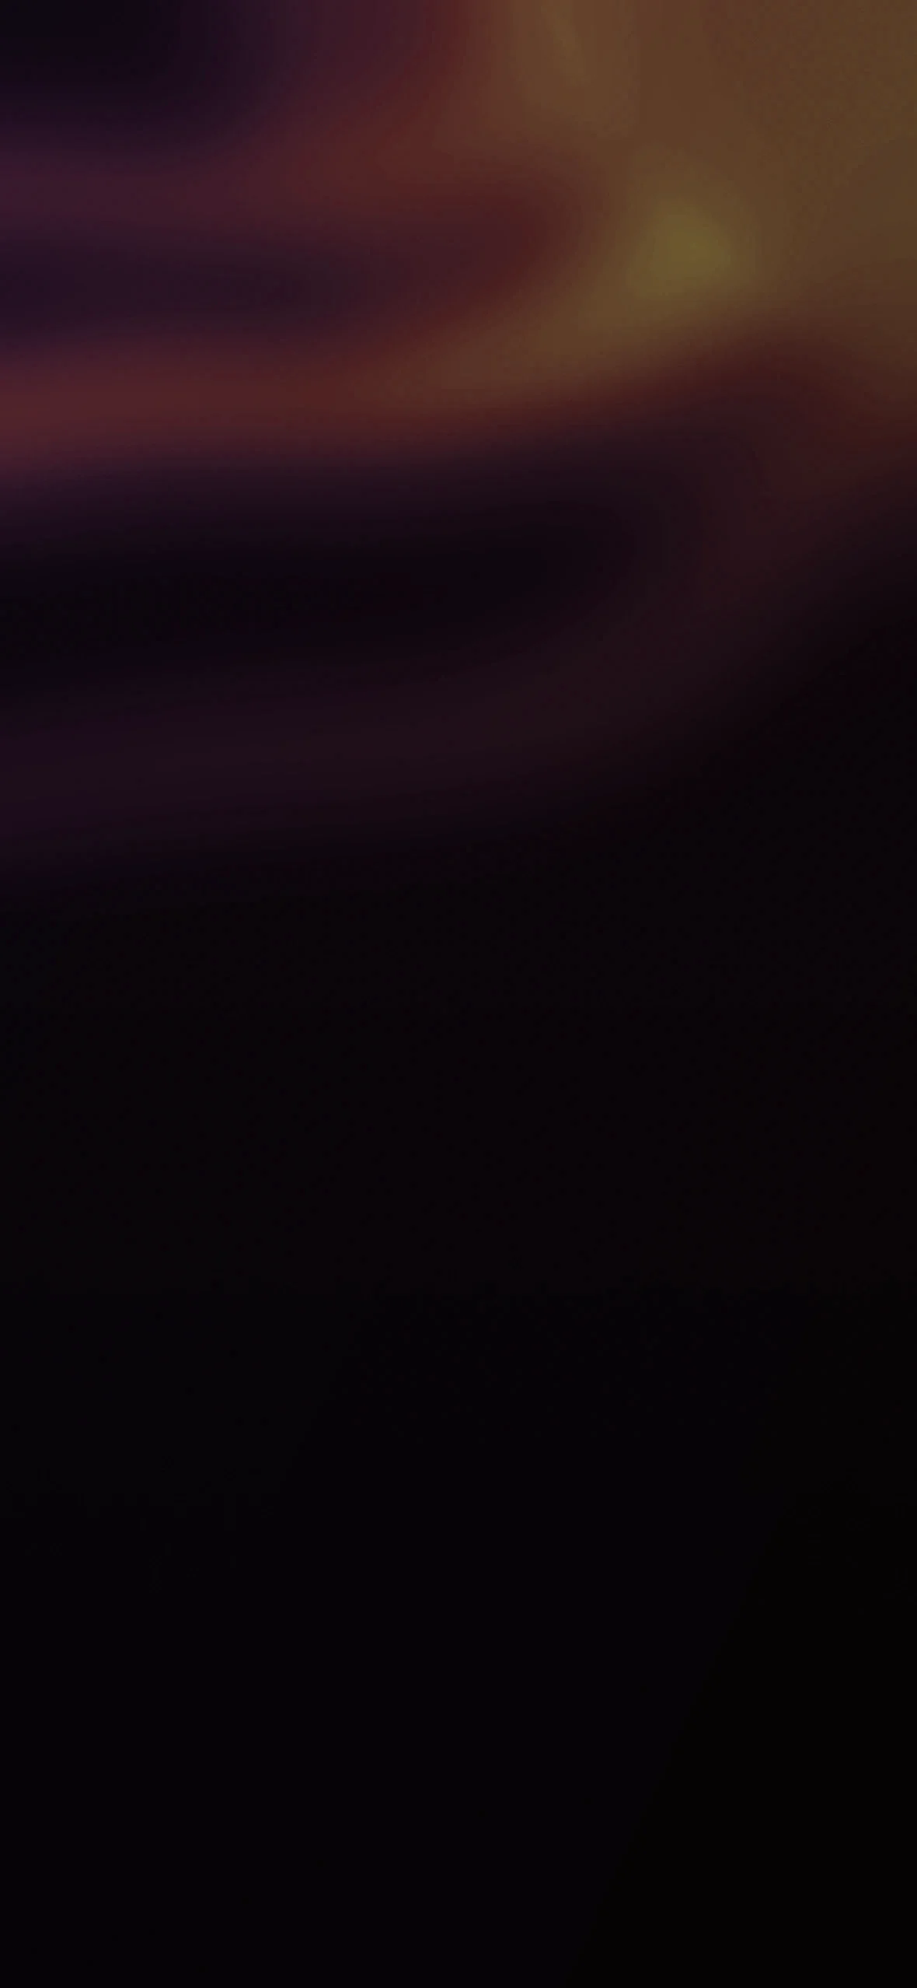
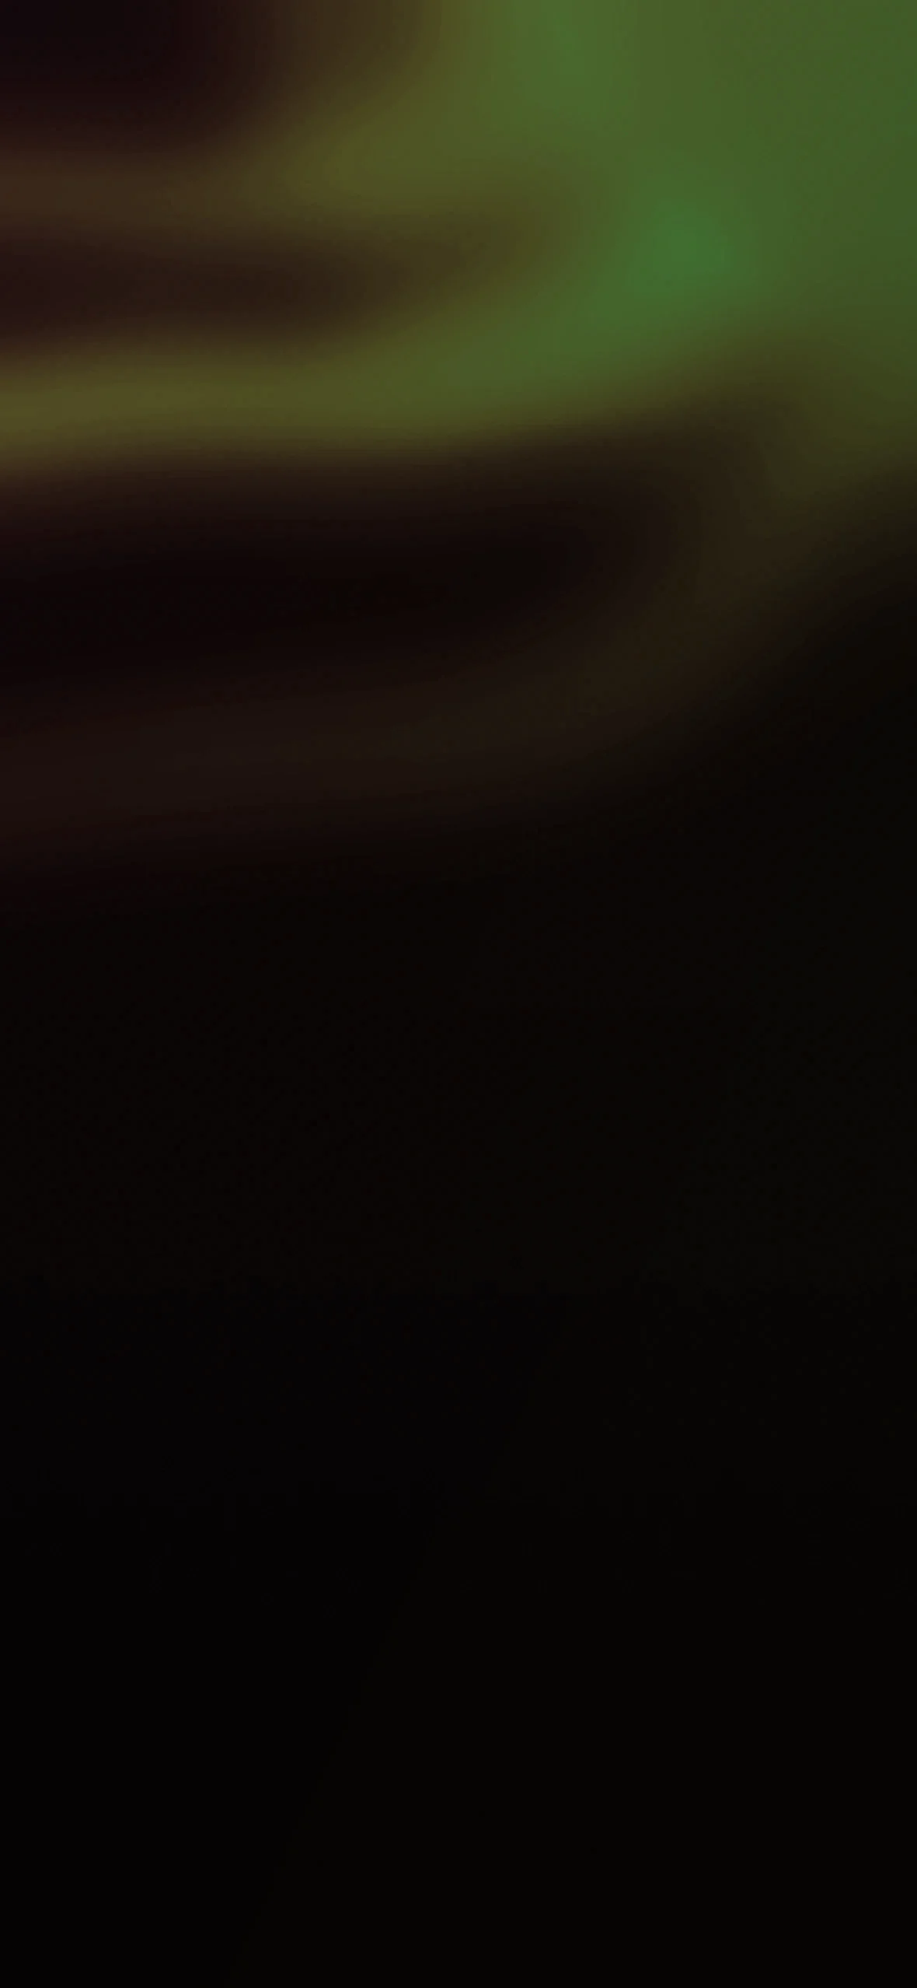
Morning 6 shiny is always Moonlight; new shiny bake; studio shows only app moons
Everyone's first shiny is Moonlight's on morning 6 (or the next morning settled), whatever is worn. Not worn:
it rises plain, turns shiny, Apply wears it. Re-baked shinies from the studio. Shiny studio lists only the
moons the app can give (Moonlight, the ladder, rares, limited).

Claude-Session: https://claude.ai/code/session_01HyXKCDmjcDpjfsTVkbCRhf

Changed region(s): [[0.0, 0.0, 1.0, 0.2473]]

diff --git a/src/features/moons/shiny-colors.ts b/src/features/moons/shiny-colors.ts
@@ -3,13 +3,13 @@ import type { ImageSourcePropType } from 'react-native';
 
 /** Each moon's shiny: its colours and recoloured pictures (shiny-look.ts). */
 export const SHINY_COLORS: Record<string, { glow: string; orb: [string, string, string, string]; skyColors: [string, string, string, string]; sky: ImageSourcePropType; moon: ImageSourcePropType }> = {
-  "moonlight": { glow: "#CAD866", orb: ["#1D011F", "#8C2506", "#B6EA50", "#B5FF81"], skyColors: ["#08040A", "#551630", "#782425", "#782425"], sky: require('@/assets/moons/shiny/moonlight-sky.webp'), moon: require('@/assets/moons/shiny/moonlight-moon.webp') },
-  "full": { glow: "#678ECC", orb: ["#262613", "#488E75", "#5AA0B2", "#7774E6"], skyColors: ["#070503", "#22210B", "#325024", "#325024"], sky: require('@/assets/moons/shiny/full-sky.webp'), moon: require('@/assets/moons/shiny/full-moon.webp') },
+  "moonlight": { glow: "#92D8C9", orb: ["#1F0D1D", "#768C3D", "#8FDCEA", "#ACD0FF"], skyColors: ["#09070A", "#553730", "#787247", "#787247"], sky: require('@/assets/moons/shiny/moonlight-sky.webp'), moon: require('@/assets/moons/shiny/moonlight-moon.webp') },
+  "full": { glow: "#0083CC", orb: ["#261800", "#008E30", "#00B2A6", "#0031E6"], skyColors: ["#070100", "#221300", "#375000", "#375000"], sky: require('@/assets/moons/shiny/full-sky.webp'), moon: require('@/assets/moons/shiny/full-moon.webp') },
   "harvest": { glow: "#E02C90", orb: ["#041031", "#C224AA", "#CC3BA8", "#E172AE"], skyColors: ["#020405", "#000E2A", "#060054", "#060054"], sky: require('@/assets/moons/shiny/harvest-sky.webp'), moon: require('@/assets/moons/shiny/harvest-moon.webp') },
-  "supermoon": { glow: "#93D86D", orb: ["#21152A", "#AFA858", "#A2CA66", "#7BF389"], skyColors: ["#030305", "#15101F", "#4E2746", "#4E2746"], sky: require('@/assets/moons/shiny/supermoon-sky.webp'), moon: require('@/assets/moons/shiny/supermoon-moon.webp') },
+  "supermoon": { glow: "#B1D8AA", orb: ["#27212A", "#ACAF8A", "#B1CA9F", "#BFF3D1"], skyColors: ["#040405", "#1B181F", "#4E3D49", "#4E3D49"], sky: require('@/assets/moons/shiny/supermoon-sky.webp'), moon: require('@/assets/moons/shiny/supermoon-moon.webp') },
   "micromoon": { glow: "#8C5BB4", orb: ["#132526", "#6F52A2", "#985EBB", "#E674DE"], skyColors: ["#020605", "#081C1B", "#1B3340", "#1B3340"], sky: require('@/assets/moons/shiny/micromoon-sky.webp'), moon: require('@/assets/moons/shiny/micromoon-moon.webp') },
-  "blood": { glow: "#1E29B3", orb: ["#00200B", "#005C64", "#034E83", "#463FBE"], skyColors: ["#020502", "#002610", "#013A25", "#013A25"], sky: require('@/assets/moons/shiny/blood-sky.webp'), moon: require('@/assets/moons/shiny/blood-moon.webp') },
-  "bluemoon": { glow: "#EBDB3D", orb: ["#300300", "#904A05", "#B47D13", "#EADC57"], skyColors: ["#030000", "#3B0600", "#7D3300", "#AE7007"], sky: require('@/assets/moons/shiny/bluemoon-sky.webp'), moon: require('@/assets/moons/shiny/bluemoon-moon.webp') },
+  "blood": { glow: "#00B3AA", orb: ["#001E20", "#640015", "#7F8300", "#0074BE"], skyColors: ["#000500", "#001A26", "#07003A", "#07003A"], sky: require('@/assets/moons/shiny/blood-sky.webp'), moon: require('@/assets/moons/shiny/blood-moon.webp') },
+  "bluemoon": { glow: "#9CA1EB", orb: ["#1A2630", "#516490", "#6B7AB4", "#A7ACEA"], skyColors: ["#020203", "#1E2D3B", "#42577D", "#6273AE"], sky: require('@/assets/moons/shiny/bluemoon-sky.webp'), moon: require('@/assets/moons/shiny/bluemoon-moon.webp') },
   "snow": { glow: "#CBD66C", orb: ["#2D172A", "#B09259", "#C9C466", "#C0EF79"], skyColors: ["#050306", "#261325", "#5A2D3D", "#5A2D3D"], sky: require('@/assets/moons/shiny/snow-sky.webp'), moon: require('@/assets/moons/shiny/snow-moon.webp') },
   "strawberry": { glow: "#9F71E0", orb: ["#102E1F", "#4A59AB", "#7164C6", "#BF79F0"], skyColors: ["#030603", "#0B2B1A", "#24606C", "#24606C"], sky: require('@/assets/moons/shiny/strawberry-sky.webp'), moon: require('@/assets/moons/shiny/strawberry-moon.webp') },
   "flower": { glow: "#E2D372", orb: ["#351B18", "#B89A5D", "#CFB869", "#F2EB7A"], skyColors: ["#090304", "#361613", "#845938", "#845938"], sky: require('@/assets/moons/shiny/flower-sky.webp'), moon: require('@/assets/moons/shiny/flower-moon.webp') },
@@ -22,8 +22,8 @@ export const SHINY_COLORS: Record<string, { glow: string; orb: [string, string, 
   "partial": { glow: "#B09159", orb: ["#1C0E0F", "#77523C", "#97734C", "#DECD70"], skyColors: ["#040202", "#180C0D", "#3A201D", "#3A201D"], sky: require('@/assets/moons/shiny/partial-sky.webp'), moon: require('@/assets/moons/shiny/partial-moon.webp') },
   "ashen": { glow: "#5A2D3D", orb: ["#0C070E", "#2A1528", "#3B1E33", "#773C3D"], skyColors: ["#020203", "#0E0810", "#2A1528", "#2A1528"], sky: require('@/assets/moons/shiny/ashen-sky.webp'), moon: require('@/assets/moons/shiny/ashen-moon.webp') },
   "smoke": { glow: "#9B0DC8", orb: ["#05282D", "#4900A9", "#8C00C4", "#ED3CD3"], skyColors: ["#030605", "#0D272A", "#1F306A", "#1F306A"], sky: require('@/assets/moons/shiny/smoke-sky.webp'), moon: require('@/assets/moons/shiny/smoke-moon.webp') },
-  "bluehour": { glow: "#AF75E8", orb: ["#274D47", "#BB78EE", "#C57BF3", "#D97FFC"], skyColors: ["#030F05", "#0C5C5B", "#3349A8", "#986FDC"], sky: require('@/assets/moons/shiny/bluehour-sky.webp'), moon: require('@/assets/moons/shiny/bluehour-moon.webp') },
-  "eclipse": { glow: "#52E8BD", orb: ["#030103", "#1A0612", "#708A0F", "#81F4FF"], skyColors: ["#060306", "#2A131A", "#6E5F30", "#6E5F30"], sky: require('@/assets/moons/shiny/eclipse-sky.webp'), moon: require('@/assets/moons/shiny/eclipse-moon.webp') },
+  "bluehour": { glow: "#E8E175", orb: ["#344D27", "#EEE478", "#F3E67B", "#FCE97F"], skyColors: ["#040F03", "#2D5C0C", "#8DA833", "#DCDB6F"], sky: require('@/assets/moons/shiny/bluehour-sky.webp'), moon: require('@/assets/moons/shiny/bluehour-moon.webp') },
+  "eclipse": { glow: "#5264E8", orb: ["#030101", "#1A0F06", "#0F8A35", "#A281FF"], skyColors: ["#060303", "#2A2313", "#3A6E30", "#3A6E30"], sky: require('@/assets/moons/shiny/eclipse-sky.webp'), moon: require('@/assets/moons/shiny/eclipse-moon.webp') },
   "dawn": { glow: "#E875DD", orb: ["#172B2E", "#945DB9", "#C46AD2", "#F77DD8"], skyColors: ["#030605", "#102A2E", "#383C7A", "#CF63D8"], sky: require('@/assets/moons/shiny/dawn-sky.webp'), moon: require('@/assets/moons/shiny/dawn-moon.webp') },
   "aurora": { glow: "#5D5EB8", orb: ["#132B1E", "#5B60B4", "#7063C5", "#A974E5"], skyColors: ["#030603", "#082A17", "#236070", "#665FC0"], sky: require('@/assets/moons/shiny/aurora-sky.webp'), moon: require('@/assets/moons/shiny/aurora-moon.webp') },
   "dusk": { glow: "#63F06D", orb: ["#21152A", "#6CE252", "#75ED77", "#80FDA5"], skyColors: ["#02020A", "#290734", "#622A42", "#65E044"], sky: require('@/assets/moons/shiny/dusk-sky.webp'), moon: require('@/assets/moons/shiny/dusk-moon.webp') },
@@ -33,7 +33,7 @@ export const SHINY_COLORS: Record<string, { glow: string; orb: [string, string, 
   "golden": { glow: "#A8F040", orb: ["#3F0B2E", "#ACED3D", "#B5F468", "#B7FD80"], skyColors: ["#050306", "#3A032B", "#B07D1D", "#B7F063"], sky: require('@/assets/moons/shiny/golden-sky.webp'), moon: require('@/assets/moons/shiny/golden-moon.webp') },
   "cottoncandy": { glow: "#E0D071", orb: ["#3F2420", "#F5EF7C", "#F9F67E", "#FEFD80"], skyColors: ["#0A0405", "#3A1A17", "#C0A561", "#F0E879"], sky: require('@/assets/moons/shiny/cottoncandy-sky.webp'), moon: require('@/assets/moons/shiny/cottoncandy-moon.webp') },
   "deepsea": { glow: "#2D30B8", orb: ["#0D3221", "#444FB0", "#7A67CB", "#C57BF3"], skyColors: ["#010802", "#013822", "#045A70", "#372DC0"], sky: require('@/assets/moons/shiny/deepsea-sky.webp'), moon: require('@/assets/moons/shiny/deepsea-moon.webp') },
-  "ember": { glow: "#04E085", orb: ["#200211", "#592C0B", "#79810C", "#43D277"], skyColors: ["#040204", "#2A000E", "#6D8A00", "#0BF0CC"], sky: require('@/assets/moons/shiny/ember-sky.webp'), moon: require('@/assets/moons/shiny/ember-moon.webp') },
+  "ember": { glow: "#05E000", orb: ["#1C2000", "#004A59", "#4D0081", "#6ED202"], skyColors: ["#040101", "#152A00", "#7E008A", "#00F084"], sky: require('@/assets/moons/shiny/ember-sky.webp'), moon: require('@/assets/moons/shiny/ember-moon.webp') },
   "matcha": { glow: "#6197C0", orb: ["#2D3219", "#707CDD", "#7E76E9", "#A87EFA"], skyColors: ["#050403", "#201F10", "#356A39", "#6591C8"], sky: require('@/assets/moons/shiny/matcha-sky.webp'), moon: require('@/assets/moons/shiny/matcha-moon.webp') },
   "rose": { glow: "#9F71E0", orb: ["#1D3A2F", "#B777EC", "#C37AF2", "#DB80FD"], skyColors: ["#030603", "#062E1A", "#225E7A", "#906DD8"], sky: require('@/assets/moons/shiny/rose-sky.webp'), moon: require('@/assets/moons/shiny/rose-moon.webp') },
   "ultraviolet": { glow: "#41E8E6", orb: ["#402915", "#74E0F3", "#7DDCF8", "#81D5FF"], skyColors: ["#080104", "#3A1905", "#1BA00D", "#5DE0F0"], sky: require('@/assets/moons/shiny/ultraviolet-sky.webp'), moon: require('@/assets/moons/shiny/ultraviolet-moon.webp') },
@@ -49,7 +49,7 @@ export const SHINY_COLORS: Record<string, { glow: string; orb: [string, string, 
   "storm": { glow: "#98694D", orb: ["#211121", "#7B403E", "#9B6D4E", "#CCD46B"], skyColors: ["#050306", "#1D0F1E", "#50283B", "#8A5446"], sky: require('@/assets/moons/shiny/storm-sky.webp'), moon: require('@/assets/moons/shiny/storm-moon.webp') },
   "borealis": { glow: "#69D0AA", orb: ["#3D2B1F", "#7CDFF5", "#7EDBF9", "#80D7FD"], skyColors: ["#060304", "#3A1905", "#2BA01E", "#3DD099"], sky: require('@/assets/moons/shiny/borealis-sky.webp'), moon: require('@/assets/moons/shiny/borealis-moon.webp') },
   "solstice": { glow: "#803BE0", orb: ["#1F3D33", "#CA7CF5", "#D27EF9", "#DD80FE"], skyColors: ["#021004", "#0A5046", "#175B7A", "#991DF0"], sky: require('@/assets/moons/shiny/solstice-sky.webp'), moon: require('@/assets/moons/shiny/solstice-moon.webp') },
-  "prism": { glow: "#F0E879", orb: ["#301918", "#F4EE7B", "#F1E97A", "#F4EE7B"], skyColors: ["#060303", "#2A1010", "#502F26", "#502F26"], sky: require('@/assets/moons/shiny/prism-sky.webp'), moon: require('@/assets/moons/shiny/prism-moon.webp') },
+  "prism": { glow: "#3096F0", orb: ["#30240A", "#318EF4", "#3094F1", "#318EF4"], skyColors: ["#060201", "#2A1B04", "#465010", "#465010"], sky: require('@/assets/moons/shiny/prism-sky.webp'), moon: require('@/assets/moons/shiny/prism-moon.webp') },
   "chrome": { glow: "#B8A15D", orb: ["#1F1020", "#834A42", "#BEAD60", "#B7FD80"], skyColors: ["#040206", "#160B18", "#3E1F34", "#3E1F34"], sky: require('@/assets/moons/shiny/chrome-sky.webp'), moon: require('@/assets/moons/shiny/chrome-moon.webp') },
   "galaxy": { glow: "#F079DB", orb: ["#24394A", "#F77DD8", "#FE80D5", "#FF81D5"], skyColors: ["#02100E", "#0A2D50", "#332090", "#BF66D0"], sky: require('@/assets/moons/shiny/galaxy-sky.webp'), moon: require('@/assets/moons/shiny/galaxy-moon.webp') },
   "ringed": { glow: "#7565C8", orb: ["#162C21", "#8E6DD7", "#A974E5", "#D27EF9"], skyColors: ["#040804", "#13281C", "#2C5856", "#2C5856"], sky: require('@/assets/moons/shiny/ringed-sky.webp'), moon: require('@/assets/moons/shiny/ringed-moon.webp') },

diff --git a/src/features/moons/shiny.test.ts b/src/features/moons/shiny.test.ts
@@ -3,6 +3,7 @@ import { test } from 'node:test';
 
 import {
   CHARM_STREAK,
+  FIRST_SHINY,
   FIRST_SHINY_MORNING,
   freshShiny,
   mergeShiny,
@@ -54,32 +55,49 @@ test('each morning rolls once: settling again the same morning changes nothing',
   assert.equal(c.state, a.state);
 });
 
-test('the first shiny comes on exactly morning 6, for every install', () => {
+test('the first shiny is Moonlight’s, on exactly morning 6, for every install and whatever is worn', () => {
+  assert.equal(FIRST_SHINY, 'moonlight');
   for (let seed = 0; seed < 300; seed++) {
-    const { catches } = hunt(seed, FIRST_SHINY_MORNING);
-    assert.deepEqual(catches, [{ id: 'harvest', morning: FIRST_SHINY_MORNING }], `seed ${seed}`);
+    for (const worn of ['moonlight', 'harvest', 'deepsea']) {
+      const { catches } = hunt(seed, FIRST_SHINY_MORNING, worn);
+      assert.deepEqual(catches, [{ id: 'moonlight', morning: FIRST_SHINY_MORNING }], `seed ${seed}, ${worn}`);
+    }
   }
 });
 
+test('morning 6 missed (the app not opened), Moonlight’s shiny comes on the next morning settled', () => {
+  let state = freshShiny(4);
+  for (let m = 1; m < FIRST_SHINY_MORNING; m++) state = settleShiny({ owned: true, state, worn: 'harvest', mornings: m, latest: key(m), streak: 0, now: m }).state;
+  const r = settleShiny({ owned: true, state, worn: 'harvest', mornings: 9, latest: key(9), streak: 0, now: 9 });
+  assert.equal(r.caught, 'moonlight');
+  assert.equal(r.state.caught.moonlight.morning, 9);
+});
+
+test('another shiny caught first (a dev catch) doesn’t take Moonlight’s away', () => {
+  const state: ShinyState = { ...freshShiny(8), caught: { blood: { id: 'blood', morningKey: key(2), morning: 2, at: 2, hunted: 1 } } };
+  const r = settleShiny({ owned: true, state, worn: 'blood', mornings: 6, latest: key(6), streak: 0, now: 6 });
+  assert.equal(r.caught, 'moonlight');
+});
+
 test('the hunt counts the mornings rolled for the worn moon, and a catch keeps the count', () => {
-  const { state, catches } = hunt(12345, 40, 'harvest');
+  const { state, catches } = hunt(12345, 400, 'harvest');
   const c = state.caught.harvest;
   assert.ok(c);
-  assert.equal(catches[0].id, 'harvest');
-  // Rolls start on the first shiny's morning, so a catch on morning n took n - FIRST_SHINY_MORNING + 1 mornings.
-  assert.equal(c.hunted, c.morning - FIRST_SHINY_MORNING + 1);
+  assert.equal(catches[1].id, 'harvest');
+  // Morning 6 is Moonlight's, so the rolls for harvest start the morning after: a catch on morning n took n - 6 mornings.
+  assert.equal(c.hunted, c.morning - FIRST_SHINY_MORNING);
   assert.equal(state.hunt.harvest, undefined);
 });
 
 test('a moon whose shiny you have is not hunted', () => {
-  let { state } = hunt(99, FIRST_SHINY_MORNING, 'harvest');
-  assert.ok(state.caught.harvest);
-  const before = state.caught.harvest;
+  let { state } = hunt(99, FIRST_SHINY_MORNING, 'moonlight');
+  assert.ok(state.caught.moonlight);
+  const before = state.caught.moonlight;
   for (let m = FIRST_SHINY_MORNING + 1; m < FIRST_SHINY_MORNING + 30; m++) {
-    state = settleShiny({ owned: true, state, worn: 'harvest', mornings: m, latest: key(m), streak: 0, now: m }).state;
+    state = settleShiny({ owned: true, state, worn: 'moonlight', mornings: m, latest: key(m), streak: 0, now: m }).state;
   }
-  assert.deepEqual(state.caught.harvest, before);
-  assert.equal(state.hunt.harvest, undefined);
+  assert.deepEqual(state.caught.moonlight, before);
+  assert.equal(state.hunt.moonlight, undefined);
 });
 
 test('the odds: 1 in 64, 1 in 32 on a run of a week', () => {
@@ -137,10 +155,11 @@ test('only a moon you have unlocked can have its shiny caught', () => {
   let state = freshShiny(5);
   for (let m = 1; m <= 60; m++) {
     const r = settleShiny({ state, worn: 'locked', owned: false, mornings: m, latest: key(m), streak: 9, now: m });
-    assert.equal(r.caught, null);
+    // Moonlight's, on morning 6, is everyone's: never the locked one's.
+    assert.equal(r.caught, m === FIRST_SHINY_MORNING ? 'moonlight' : null);
     state = r.state;
   }
-  assert.deepEqual(state.caught, {});
+  assert.deepEqual(Object.keys(state.caught), ['moonlight']);
   assert.deepEqual(state.hunt, {});
   // The morning still counts as rolled: wearing an owned moon later that morning doesn't roll it again.
   const again = settleShiny({ state, worn: 'harvest', owned: true, mornings: 60, latest: key(60), streak: 9, now: 61 });

diff --git a/src/features/wake/payoff-screen.tsx b/src/features/wake/payoff-screen.tsx
@@ -361,6 +361,11 @@ export function PayoffScreen({
   // it's yours and switched on. Not designed yet (user, 2026-11-23): the rise and one line, no effects.
   const [newShiny] = useState(facts.newShiny ?? null);
   const shinyMoon = newShiny ? (MOONS.find((m) => m.id === newShiny) ?? null) : null;
+  // A shiny of a moon not worn (morning 6's Moonlight, everyone's: shiny.ts `FIRST_SHINY`): it rises plain like a
+  // new moon, turns shiny, and Apply wears it. Done without Apply goes back to the worn moon.
+  const shinyElsewhere = shinyMoon && !newMoon && shinyMoon.id !== worn.id ? shinyMoon : null;
+  const riseMoon = newMoon ?? shinyElsewhere;
+  const wearMoon = toWear ?? shinyElsewhere;
   // The reveal (shiny-reveal.tsx): once the plain moon has risen and settled, it turns shiny with the draft's
   // marks, the phone buzzes, and the line under the time names it. Then it's yours and switched on.
   const fx = facts.shinyFx ?? 1;
@@ -402,16 +407,16 @@ export function PayoffScreen({
   const showNewMoon = () => {
     if (firstShown.current || leaving.current) return;
     firstShown.current = true;
-    if (newMoon && newMoon.id !== worn.id) previewMoon(newMoon.id, reduced ? 0 : payoffTuning.moonFadeMs);
+    if (riseMoon && riseMoon.id !== worn.id) previewMoon(riseMoon.id, reduced ? 0 : payoffTuning.moonFadeMs);
   };
   // Whatever happens, nothing stays on show once the payoff is gone.
   useEffect(() => () => previewMoon(null), []);
   // Applied here: the button stays, as "Applied", so the page doesn't jump.
   const [applied, setApplied] = useState(false);
   const wear = () => {
-    if (!toWear) return;
+    if (!wearMoon) return;
     haptic.done();
-    setMoon(toWear.id);
+    setMoon(wearMoon.id);
     setApplied(true);
   };
   // His line once the page is in (user, 2026-10-27: Loc's voice instead of a log line), said once:
@@ -521,7 +526,7 @@ export function PayoffScreen({
       else router.replace('/');
     };
     // Left without Apply: the worn moon comes back (below).
-    const backToWorn = firstShown.current && newMoon !== null && newMoon.id !== worn.id && !applied;
+    const backToWorn = firstShown.current && riseMoon !== null && riseMoon.id !== worn.id && !applied;
     if (reduced) {
       if (backToWorn) previewMoon(null);
       moonSink.set(HOME_SINK);
@@ -578,7 +583,7 @@ export function PayoffScreen({
   const [cards, setCards] = useState(0);
   const card: CardFacts = {
     // The moon this payoff rose: the new one, or the one worn.
-    moon: newMoon ?? worn,
+    moon: riseMoon ?? worn,
     value: up.value,
     unit: up.unit,
     kicker: payoffKicker(mornings),
@@ -658,9 +663,9 @@ export function PayoffScreen({
           <Text style={styles.kicker}>{shinyMoon && revealed ? shinyKicker(shinyMoon, sayKey === null ? null : caughtShiny(shinyMoon.id)?.hunted) : payoffKicker(mornings)}</Text>
         </In>
         {/* The new moon's Apply pill, where its card used to be (user, 2026-11-02). A surprise taps open here first. */}
-        {newMoon ? (
+        {riseMoon ? (
           <In shown={shown} step={1} testID="payoff-apply" style={[styles.apply, short && styles.applyShort, moved(nudge.applyY)]}>
-            <ApplyPill moon={newMoon} applied={applied || worn.id === newMoon.id} onPress={wear} />
+            <ApplyPill moon={riseMoon} applied={applied || worn.id === riseMoon.id} onPress={wear} />
           </In>
         ) : null}
         </Animated.View>
@@ -671,7 +676,7 @@ export function PayoffScreen({
           style={[styles.week, short && styles.weekShort, moved(nudge.weekY)]}
         >
           {/* An SE has no room for both the new moon and the label. */}
-          {short && newMoon ? null : <Animated.Text style={[styles.weekLabel, pageStyle]}>This week</Animated.Text>}
+          {short && riseMoon ? null : <Animated.Text style={[styles.weekLabel, pageStyle]}>This week</Animated.Text>}
           {/* Home's week dots, the mist ones on iPhone (week-strip.ios.tsx; user, 2026-10-28). */}
           <Animated.View ref={weekRef} style={[flyStyle, weekOutStyle]}>
             <WeekStrip days={days} reduced={reduced} />

diff --git a/src/features/moons/shiny.ts b/src/features/moons/shiny.ts
@@ -21,6 +21,12 @@ export const CHARM_STREAK = 7;
  * it, it's the odds alone.
  */
 export const FIRST_SHINY_MORNING = 6;
+/**
+ * And it's always Moonlight's shiny, whatever moon is worn (user 2026-11-24: "everyone should get that, no
+ * matter what"). Moonlight is the moon everyone starts with. Not caught by then (the app not opened on
+ * morning 6), it comes on the next morning settled.
+ */
+export const FIRST_SHINY = 'moonlight';
 /** Rolls start on the first shiny's morning. */
 export const SHINY_FROM_MORNING = FIRST_SHINY_MORNING;
 
@@ -80,11 +86,17 @@ export function settleShiny(f: ShinyFacts): { state: ShinyState; caught: string 
   const { state, worn, owned, mornings, latest, streak, now } = f;
   if (!latest || mornings < SHINY_FROM_MORNING || state.rolled === latest) return { state, caught: null };
   const next: ShinyState = { ...state, rolled: latest, caught: { ...state.caught }, hunt: { ...state.hunt } };
+  // The guaranteed one first: that morning is Moonlight's, and no other moon is rolled for.
+  if (!next.caught[FIRST_SHINY]) {
+    // Not hunted (0): the payoff's line says just "Shiny Moonlight".
+    next.caught[FIRST_SHINY] = { id: FIRST_SHINY, morningKey: latest, morning: mornings, at: now, hunted: 0 };
+    delete next.hunt[FIRST_SHINY];
+    return { state: next, caught: FIRST_SHINY };
+  }
   // A moon not yours (a dev or preview pick) or one whose shiny you have: the morning is used, nothing is hunted.
   if (!owned || next.caught[worn]) return { state: next, caught: null };
   const hunted = (next.hunt[worn] ?? 0) + 1;
-  const first = Object.keys(next.caught).length === 0;
-  const hit = first || rollFor(state.seed, `shiny:${latest}`) < shinyOdds(streak);
+  const hit = rollFor(state.seed, `shiny:${latest}`) < shinyOdds(streak);
   if (!hit) {
     next.hunt[worn] = hunted;
     return { state: next, caught: null };

diff --git a/tools/shiny-studio/shinylib.py b/tools/shiny-studio/shinylib.py
@@ -63,3 +63,15 @@ def default_params(glow, i=0):
         if s < 0.18 or min(d(a), d(b)) > 45:
             break
     return {'a': a, 'b': b if b > a else b + 360, 'sweep': 70, 'sat': 1.1, 'min': 0.45}
+
+
+def used():
+    """The moons the app can actually give you (user 2026-11-24: the studio shows only these): Moonlight, the
+    ladder (its secret slots included) and the rare moons, read from the app's own lists, in that order."""
+    src = ROOT / 'src' / 'features' / 'moons'
+    ladder = json.loads(re.search(r'export const LADDER[^=]*=\s*(\[.*?\]);', (src / 'moon-data.ts').read_text()).group(1))
+    rare = re.findall(r"'([\w-]+)'", re.search(r'export const RARE_MOONS[^=]*=\s*\[(.*?)\]', (src / 'moon-ladder.ts').read_text()).group(1))
+    limited = re.findall(r"id:\s*'([\w-]+)'", re.search(r'export const LIMITED[^=]*=\s*\[(.*?)\];', (src / 'moon-collection.ts').read_text(), re.S).group(1))
+    order = ['moonlight'] + [m for m in ladder if m] + rare + limited
+    by_id = {m['id']: m for m in moons()}
+    return [by_id[i] for i in dict.fromkeys(order) if i in by_id]
